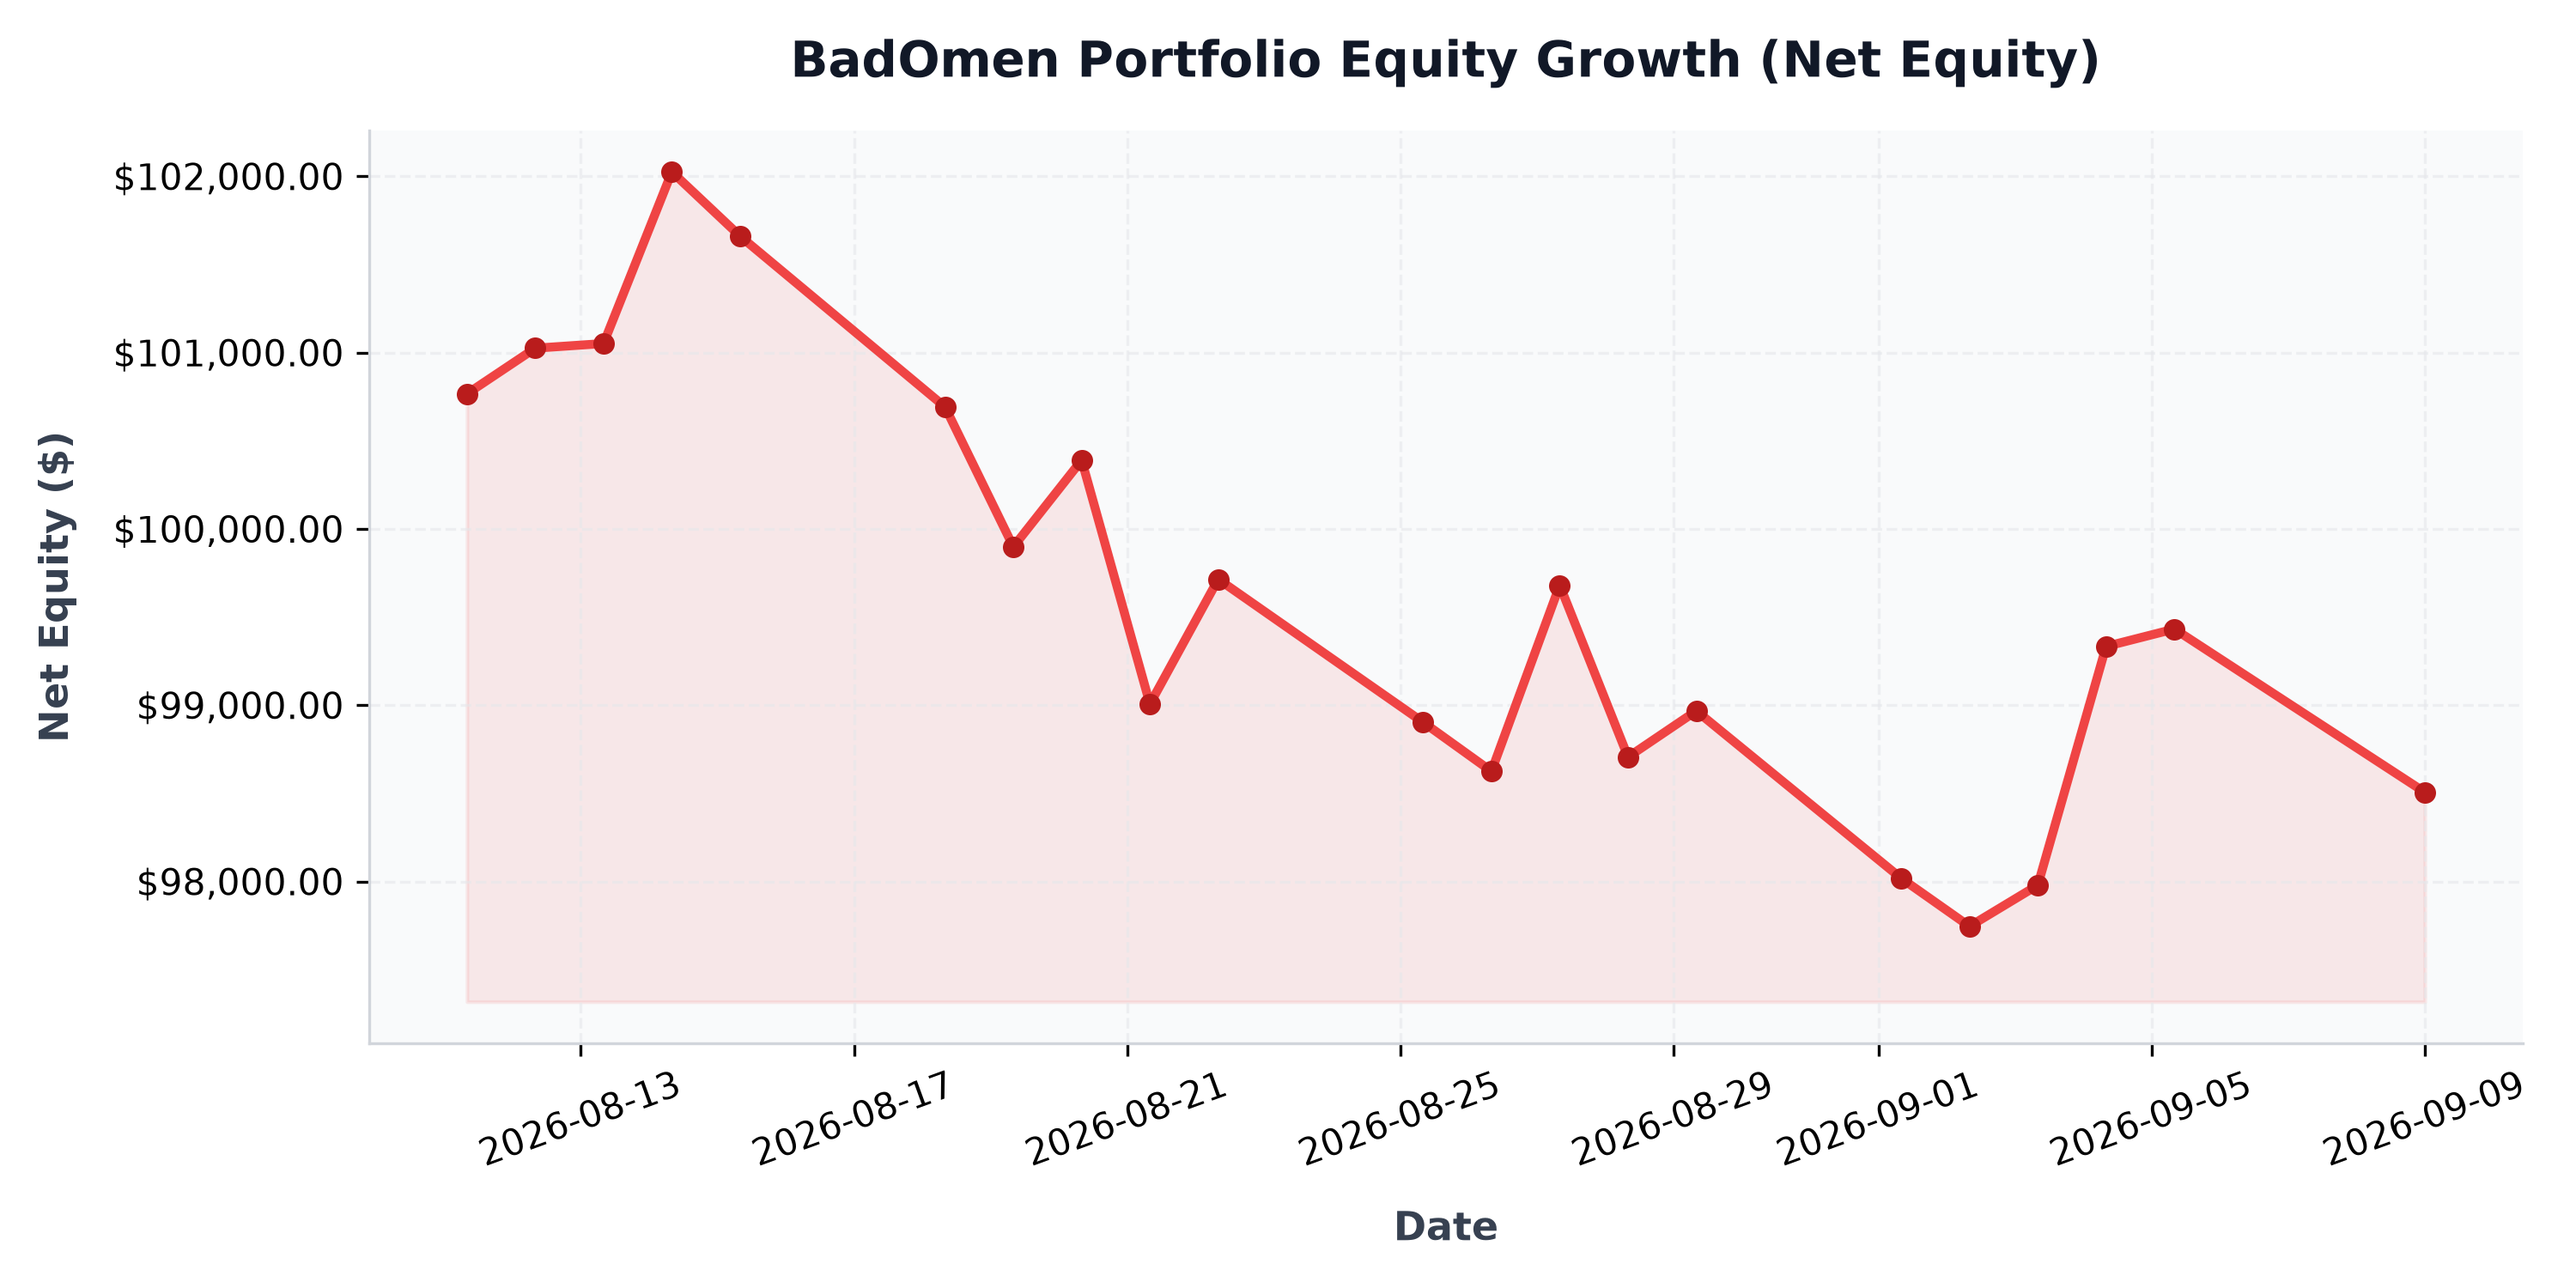
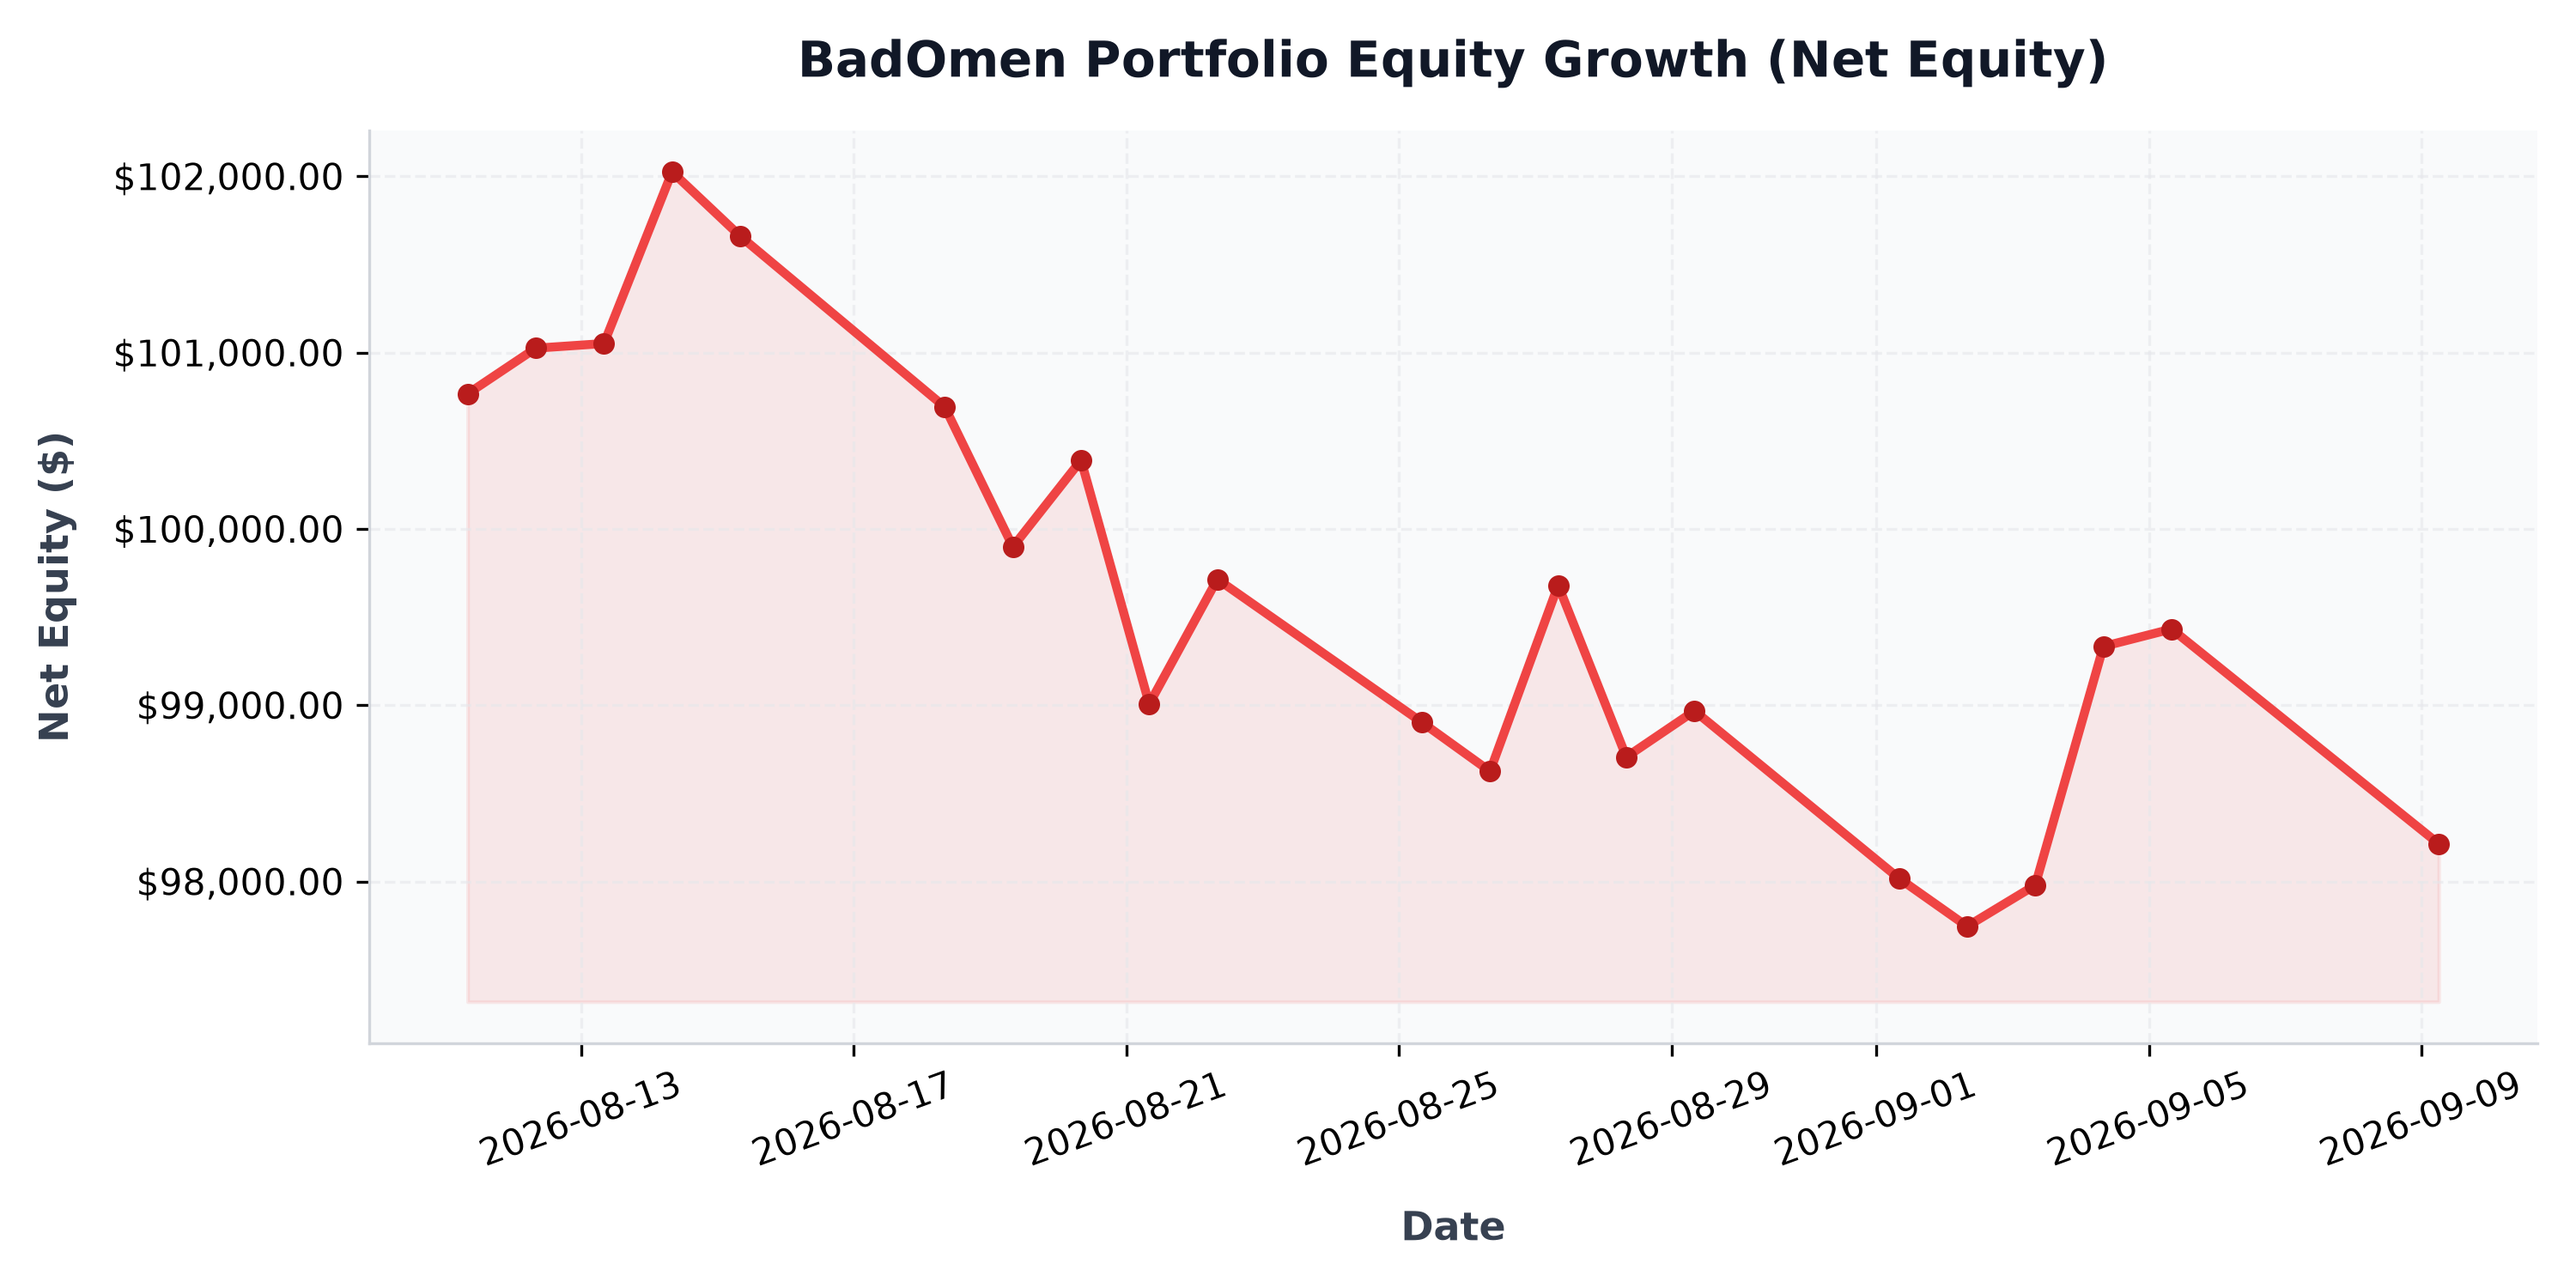
auto: daily portfolio status update - 2026-09-09 06:05:26

diff --git a/src/content/posts/portfolio-performance.md b/src/content/posts/portfolio-performance.md
@@ -1,6 +1,6 @@
 ---
 title: "BadOmen Algorithmic Portfolio Performance & PnL Report"
-pubDatetime: 2026-09-09T00:00:26.381777+08:00
+pubDatetime: 2026-09-09T06:05:26.366846+08:00
 description: "Live performance metrics, active holdings, and historic equity curve for the BadOmen automated paper trading portfolio."
 featured: true
 draft: false
@@ -16,11 +16,11 @@ Welcome to the live performance dashboard for **BadOmen**, our automated algorit
 ## 📊 Portfolio Summary
 | Performance Metric | Value | description |
 | :--- | :--- | :--- |
-| **Net Portfolio Equity** | **$98,506.40** | Total current liquidation value of cash and stock holdings |
-| **Total Unrealized P&L** | 🔴 **$-2,373.97** (-2.35%) | Total return of current open holdings |
+| **Net Portfolio Equity** | **$98,213.47** | Total current liquidation value of cash and stock holdings |
+| **Total Unrealized P&L** | 🔴 **$-2,665.27** (-2.64%) | Total return of current open holdings |
 | **Cash Balance** | $23,482.80 | Idle reserve currency available for limit orders |
-| **Buying Power** | $303,997.28 | Margin-backed buying power for entry allocations |
-| **Report Updated** | `2026-09-09 00:00:26 (SGT)` | Timestamp of daily execution and sync run |
+| **Buying Power** | $303,177.07 | Margin-backed buying power for entry allocations |
+| **Report Updated** | `2026-09-09 06:05:26 (SGT)` | Timestamp of daily execution and sync run |
 
 ## 📈 Net Equity Growth Curve
 The chart below illustrates the historical performance of the account starting from our baseline capital funding of $100,000.00.
@@ -35,36 +35,36 @@ The chart below illustrates the exposure of our currently held active positions 
 ## 💼 Current Position Holdings
 | Ticker | Industry | Shares Owned | Average Entry Cost | Current Price | Unrealized P&L | Return (%) |
 | :--- | :--- | :--- | :--- | :--- | :--- | :--- |
-| **AN** | Auto & Truck Dealerships | 5 | $188.51 | $209.00 | 🟢 +$102.46 | +10.87% |
-| **AVGO** | Semiconductors | 1 | $385.71 | $369.31 | 🔴 $-16.40 | -4.25% |
-| **BIRK** | Footwear & Accessories | 407 | $37.32 | $33.29 | 🔴 $-1,639.28 | -10.79% |
-| **BLBD** | Farm & Heavy Construction Machinery | 231 | $65.52 | $64.47 | 🔴 $-241.62 | -1.60% |
-| **BVN** | Other Precious Metals & Mining | 32 | $31.88 | $34.23 | 🟢 +$75.36 | +7.39% |
-| **CELH** | Beverages - Non-Alcoholic | 33 | $29.71 | $30.03 | 🟢 +$10.47 | +1.07% |
-| **CPRI** | Luxury Goods | 1042 | $14.55 | $13.10 | 🔴 $-1,517.99 | -10.01% |
-| **DUOL** | Software - Application | 14 | $131.04 | $145.22 | 🟢 +$198.39 | +10.81% |
-| **FIS** | Information Technology Services | 23 | $41.79 | $39.59 | 🔴 $-50.60 | -5.26% |
-| **GDDY** | Software - Infrastructure | 6 | $76.21 | $93.95 | 🟢 +$106.44 | +23.28% |
-| **GDS** | Information Technology Services | 30 | $32.77 | $32.34 | 🔴 $-12.75 | -1.30% |
-| **GGAL** | Banks - Regional | 17 | $56.04 | $43.90 | 🔴 $-206.37 | -21.66% |
-| **GOOGL** | Internet Content & Information | 3 | $319.44 | $338.36 | 🟢 +$56.76 | +5.92% |
-| **GPI** | Auto & Truck Dealerships | 3 | $316.15 | $285.38 | 🔴 $-92.33 | -9.73% |
-| **HUBS** | Software - Application | 8 | $221.18 | $244.00 | 🟢 +$182.55 | +10.32% |
-| **ITRI** | Scientific & Technical Instruments | 12 | $81.80 | $96.76 | 🟢 +$179.52 | +18.29% |
-| **KBR** | Engineering & Construction | 27 | $36.23 | $36.38 | 🟢 +$3.97 | +0.41% |
-| **META** | Internet Content & Information | 1 | $568.17 | $616.42 | 🟢 +$48.26 | +8.49% |
-| **NESR** | Oil & Gas Equipment & Services | 34 | $28.74 | $34.44 | 🟢 +$193.63 | +19.82% |
-| **NU** | Banks - Regional | 57 | $11.60 | $15.45 | 🟢 +$219.25 | +33.16% |
-| **ON** | Semiconductors | 10 | $90.45 | $73.54 | 🔴 $-169.15 | -18.70% |
-| **ORCL** | Software - Infrastructure | 5 | $181.95 | $164.08 | 🔴 $-89.35 | -9.82% |
-| **PATH** | Software - Infrastructure | 38 | $10.25 | $14.14 | 🟢 +$147.82 | +37.95% |
-| **PYPL** | Credit Services | 17 | $56.05 | $53.06 | 🔴 $-50.74 | -5.33% |
-| **QCOM** | Semiconductors | 15 | $193.68 | $174.82 | 🔴 $-282.97 | -9.74% |
-| **SMCI** | Computer Hardware | 22 | $29.25 | $40.83 | 🟢 +$254.76 | +39.59% |
-| **SRE** | Utilities - Diversified | 57 | $84.75 | $85.60 | 🟢 +$48.31 | +1.00% |
-| **T** | Telecom Services | 47 | $20.85 | $25.64 | 🟢 +$225.13 | +22.97% |
-| **WEN** | Restaurants | 257 | $8.02 | $7.61 | 🔴 $-107.61 | -5.22% |
-| **ZG** | Internet Content & Information | 31 | $31.35 | $32.97 | 🟢 +$50.12 | +5.16% |
+| **AN** | Auto & Truck Dealerships | 5 | $188.51 | $209.30 | 🟢 +$103.96 | +11.03% |
+| **AVGO** | Semiconductors | 1 | $385.71 | $367.56 | 🔴 $-18.15 | -4.71% |
+| **BIRK** | Footwear & Accessories | 407 | $37.32 | $32.93 | 🔴 $-1,783.89 | -11.74% |
+| **BLBD** | Farm & Heavy Construction Machinery | 231 | $65.52 | $64.28 | 🔴 $-285.51 | -1.89% |
+| **BVN** | Other Precious Metals & Mining | 32 | $31.88 | $34.16 | 🟢 +$73.12 | +7.17% |
+| **CELH** | Beverages - Non-Alcoholic | 33 | $29.71 | $29.67 | 🔴 $-1.30 | -0.13% |
+| **CPRI** | Luxury Goods | 1042 | $14.55 | $13.06 | 🔴 $-1,554.46 | -10.25% |
+| **DUOL** | Software - Application | 14 | $131.04 | $147.00 | 🟢 +$223.38 | +12.18% |
+| **FIS** | Information Technology Services | 23 | $41.79 | $39.83 | 🔴 $-45.03 | -4.69% |
+| **GDDY** | Software - Infrastructure | 6 | $76.21 | $93.00 | 🟢 +$100.74 | +22.03% |
+| **GDS** | Information Technology Services | 30 | $32.77 | $32.00 | 🔴 $-23.10 | -2.35% |
+| **GGAL** | Banks - Regional | 17 | $56.04 | $44.12 | 🔴 $-202.63 | -21.27% |
+| **GOOGL** | Internet Content & Information | 3 | $319.44 | $338.28 | 🟢 +$56.53 | +5.90% |
+| **GPI** | Auto & Truck Dealerships | 3 | $316.15 | $280.01 | 🔴 $-108.42 | -11.43% |
+| **HUBS** | Software - Application | 8 | $221.18 | $240.89 | 🟢 +$157.67 | +8.91% |
+| **ITRI** | Scientific & Technical Instruments | 12 | $81.80 | $96.57 | 🟢 +$177.24 | +18.06% |
+| **KBR** | Engineering & Construction | 27 | $36.23 | $37.04 | 🟢 +$21.79 | +2.23% |
+| **META** | Internet Content & Information | 1 | $568.17 | $613.60 | 🟢 +$45.43 | +8.00% |
+| **NESR** | Oil & Gas Equipment & Services | 34 | $28.74 | $34.19 | 🟢 +$185.30 | +18.96% |
+| **NU** | Banks - Regional | 57 | $11.60 | $15.36 | 🟢 +$214.40 | +32.43% |
+| **ON** | Semiconductors | 10 | $90.45 | $71.25 | 🔴 $-192.05 | -21.23% |
+| **ORCL** | Software - Infrastructure | 5 | $181.95 | $163.16 | 🔴 $-93.95 | -10.33% |
+| **PATH** | Software - Infrastructure | 38 | $10.25 | $13.99 | 🟢 +$142.13 | +36.49% |
+| **PYPL** | Credit Services | 17 | $56.05 | $53.23 | 🔴 $-47.94 | -5.03% |
+| **QCOM** | Semiconductors | 15 | $193.68 | $174.91 | 🔴 $-281.62 | -9.69% |
+| **SMCI** | Computer Hardware | 22 | $29.25 | $40.16 | 🟢 +$240.02 | +37.30% |
+| **SRE** | Utilities - Diversified | 57 | $84.75 | $85.47 | 🟢 +$40.90 | +0.85% |
+| **T** | Telecom Services | 47 | $20.85 | $25.60 | 🟢 +$223.25 | +22.78% |
+| **WEN** | Restaurants | 257 | $8.02 | $7.63 | 🔴 $-101.19 | -4.91% |
+| **ZG** | Internet Content & Information | 31 | $31.35 | $33.55 | 🟢 +$68.10 | +7.01% |
 
 ## 🔴 Recent Realized Trades
 | Ticker | Shares Sold | Entry Price | Exit Price | Strategy Trigger | Realized Return | Exit Date |
